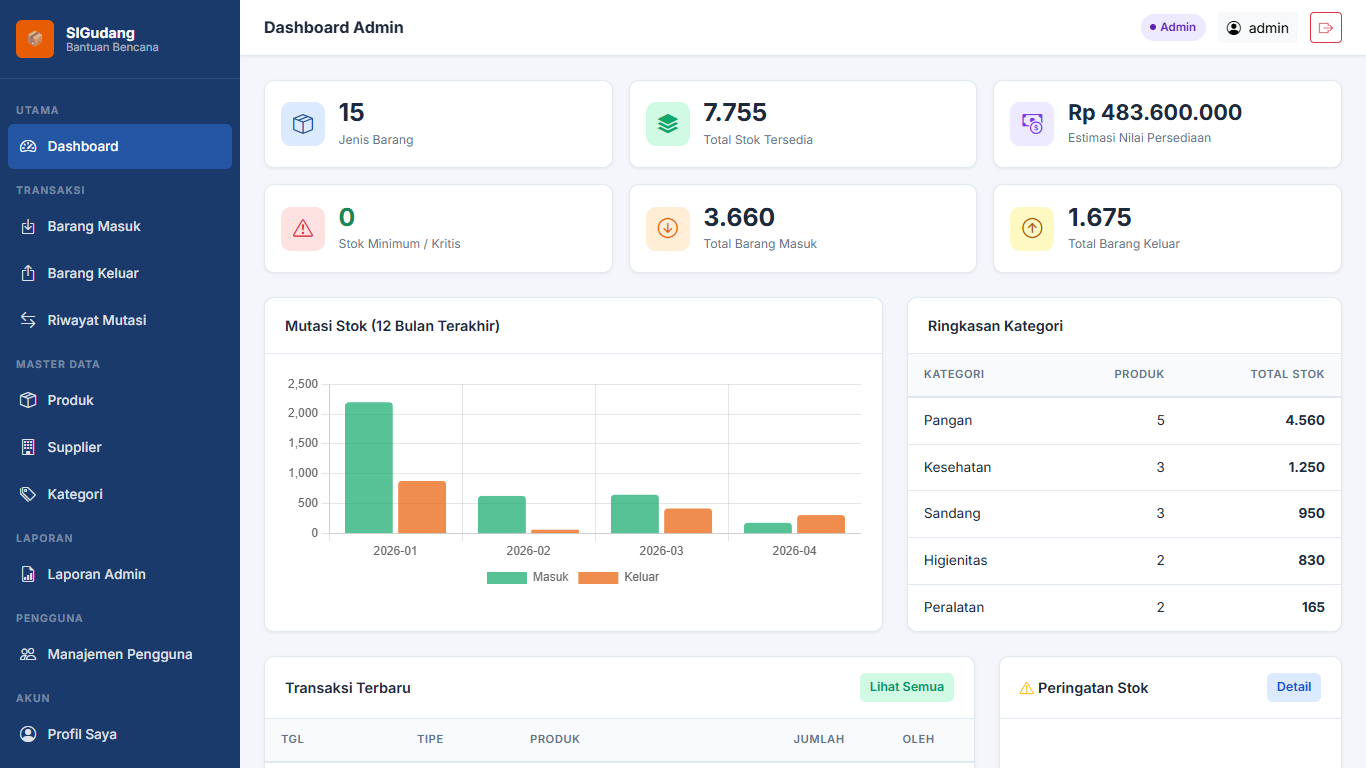
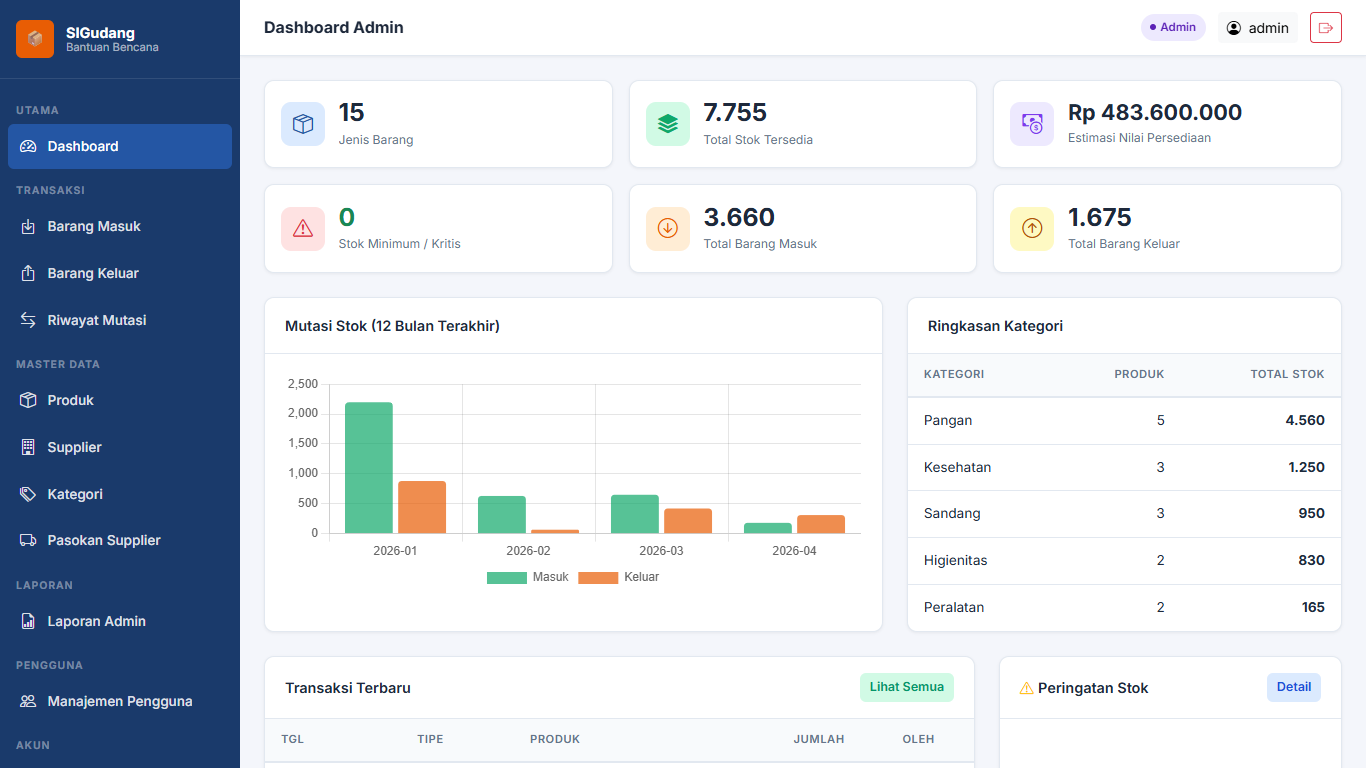
fix(ui): kembalikan menu sidebar dengan revisi nama Pasokan Supplier dan pertahankan kode murni Mermaid untuk ERD

Changed region(s): [[0.0, 0.6875, 0.123, 0.8125], [0.0, 0.9062, 0.1537, 0.9688], [0.0, 0.8438, 0.1537, 0.875]]

diff --git a/admin/produk_supplier.php b/admin/produk_supplier.php
@@ -71,18 +71,18 @@ $rows = $st->fetchAll();
 $products  = $db->query("SELECT id,sku,name FROM products ORDER BY name")->fetchAll();
 $suppliers = $db->query("SELECT id,name,type FROM suppliers ORDER BY name")->fetchAll();
 
-$pageTitle = 'Pasokan Produk & Supplier';
-$activeMenu = 'produk';
+$pageTitle = 'Pasokan Supplier';
+$activeMenu = 'produk_supplier';
 include dirname(__DIR__) . '/views/partials/header_admin.php';
 ?>
-<nav class="breadcrumb-bar"><ol class="breadcrumb"><li class="breadcrumb-item"><a href="<?= BASE_URL ?>/admin/dashboard.php">Dashboard</a></li><li class="breadcrumb-item"><a href="<?= BASE_URL ?>/admin/produk.php">Produk</a></li><li class="breadcrumb-item active">Pasokan Supplier</li></ol></nav>
+<nav class="breadcrumb-bar"><ol class="breadcrumb"><li class="breadcrumb-item"><a href="<?= BASE_URL ?>/admin/dashboard.php">Dashboard</a></li><li class="breadcrumb-item active">Pasokan Supplier</li></ol></nav>
 <?php if ($msg): ?><div class="alert alert-<?= $msgType ?> alert-dismissible fade show"><?= e($msg) ?><button type="button" class="btn-close" data-bs-dismiss="alert"></button></div><?php endif; ?>
 
 <div class="row g-4">
   <!-- Form tambah relasi -->
   <div class="col-lg-4">
     <div class="card-panel">
-      <div class="card-panel-header">Atur Pasokan & Donatur Produk</div>
+      <div class="card-panel-header">Atur Pasokan Supplier</div>
       <div class="card-panel-body">
         <form method="POST">
           <?= csrfField() ?>

diff --git a/views/partials/header_admin.php b/views/partials/header_admin.php
@@ -79,6 +79,11 @@ $activeMenu = $activeMenu ?? '';
         <i class="bi bi-tags nav-icon"></i> Kategori
       </a>
     </div>
+    <div class="nav-item">
+      <a href="<?= BASE_URL ?>/admin/produk_supplier.php" class="nav-link <?= $activeMenu==='produk_supplier'?'active':'' ?>">
+        <i class="bi bi-truck nav-icon"></i> Pasokan Supplier
+      </a>
+    </div>
 
     <div class="nav-section-label">Laporan</div>
     <div class="nav-item">

diff --git a/README.md b/README.md
@@ -219,8 +219,6 @@ Sesuai materi perkuliahan (*Slide 5, 6, 7, 8 Pertemuan 4*), database ini mengimp
 
 ### Entity Relationship Diagram (ERD)
 
-![Diagram Relasi Database / ERD](docs/screenshots/00_erd_relasi_database.png)
-
 ```mermaid
 erDiagram
     %% 1. RELASI ONE-TO-ONE (1:1)
